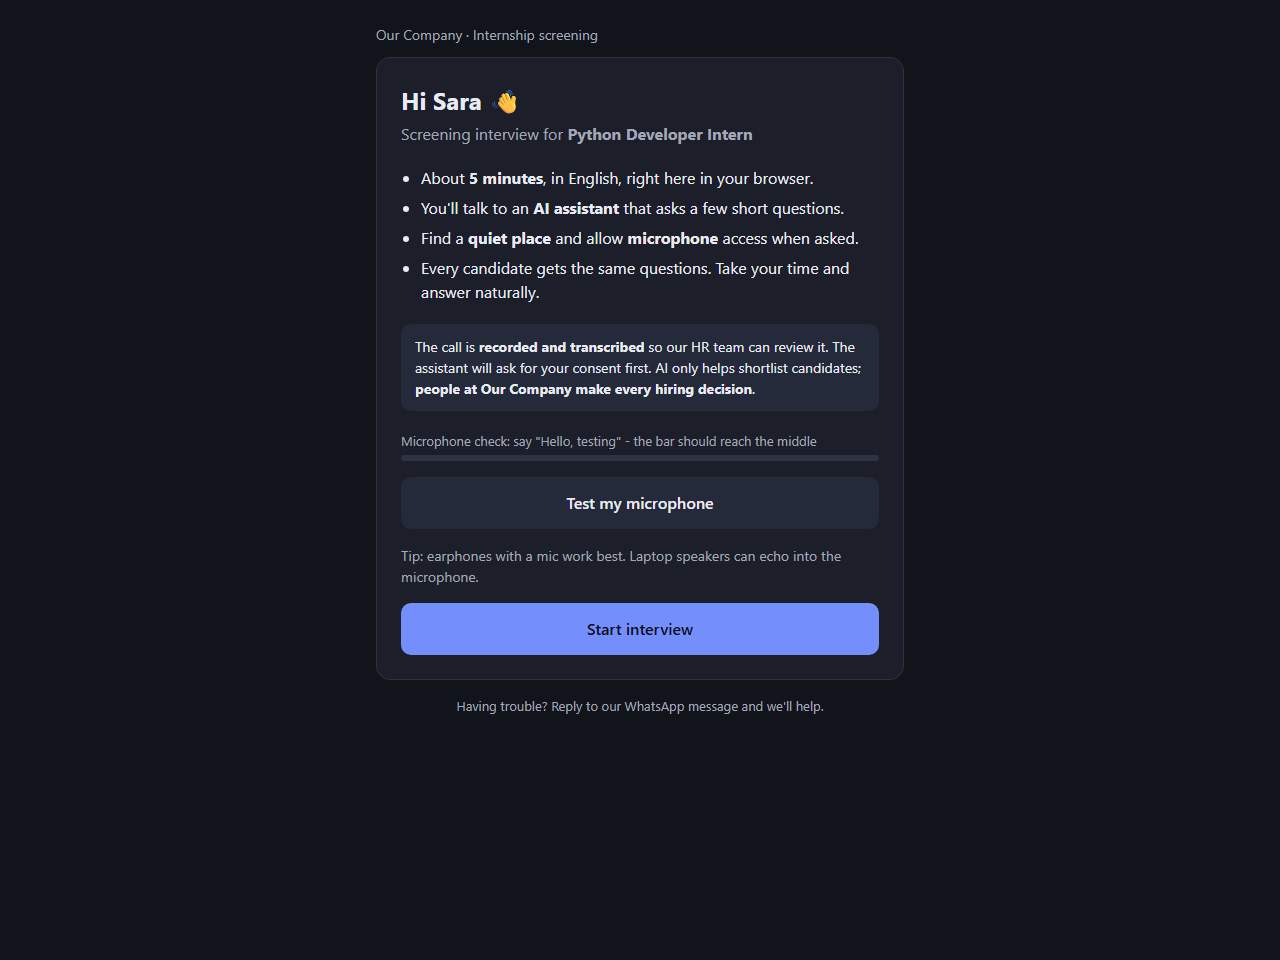
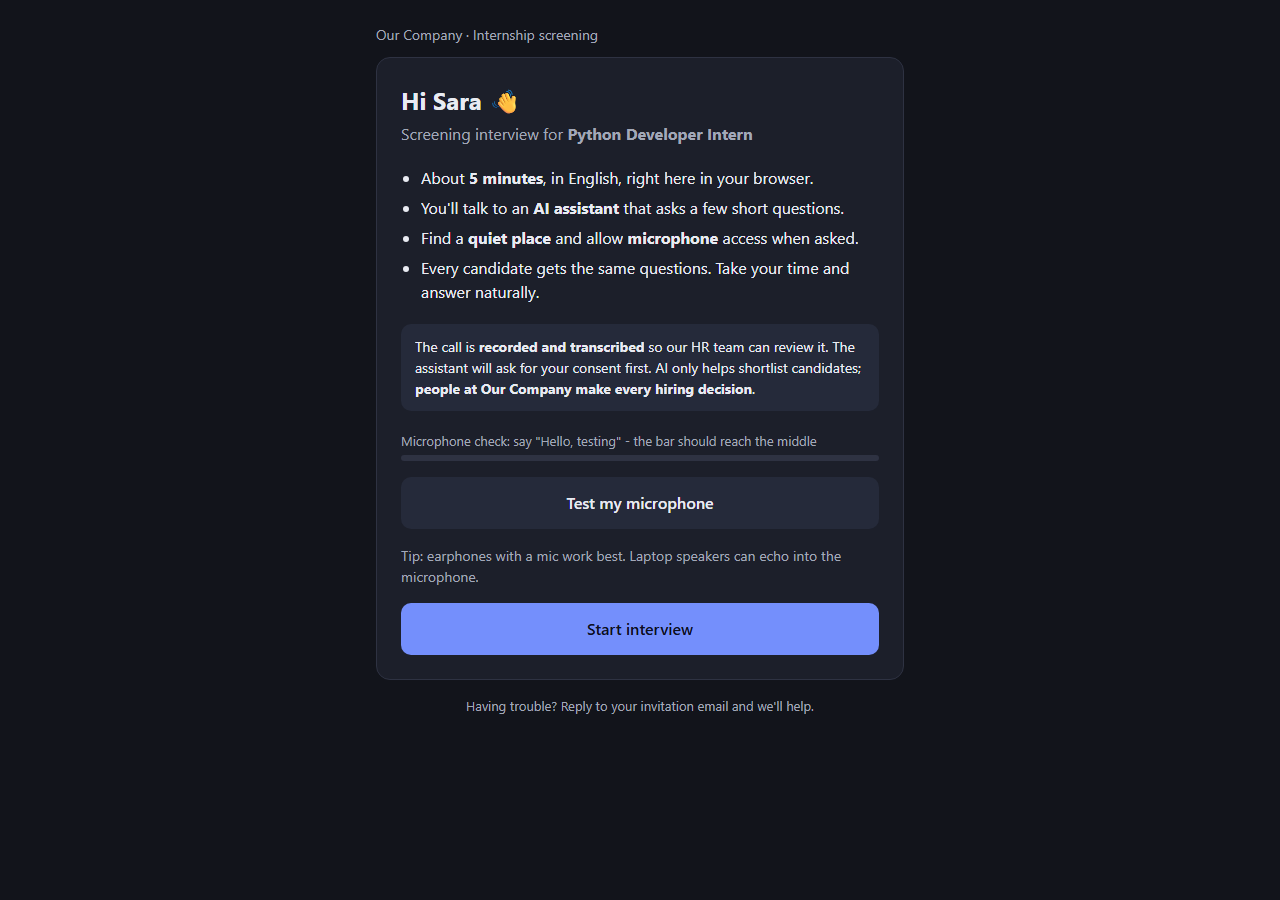
README screenshots (desktop + mobile) and Phase 7 progress log

Changed region(s): [[0.3125, 0.0933, 0.6875, 0.7467], [0.375, 0.7778, 0.625, 0.8089], [0.2812, 0.0311, 0.4688, 0.0622]]

diff --git a/PROGRESS.md b/PROGRESS.md
@@ -12,7 +12,7 @@ Running record of the build so any new session (human or AI) can pick up where w
 | 4. Google Calendar tool | ✅ **Done.** Real free/busy + events with Meet links in hr-account's calendar (2026-10-11) |
 | 5. n8n workflows + Meta WhatsApp Cloud API | 🟡 n8n flows live (email channel). **WhatsApp dropped by owner (2026-10-12)**: Meta blocks the new account (no card + no business verification). WhatsApp/ElevenLabs code kept, switched off |
 | 6. AWS EC2 deployment | ✅ **Live (2026-10-13):** https://muneeb-screener.duckdns.org (EC2 t3.small, Mumbai, HTTPS, nightly S3 backups) |
-| 7. CI/CD + README polish | Not started |
+| 7. CI/CD + README polish | ✅ **Public repo** https://github.com/Muneeb-akhtar/ai-internship-screener, CI green, GitOps auto-deploy (2026-10-13). ⏳ Owner records the demo video |
 
 ## Log
 ### 2026-10-09: environment setup + Phase 1
@@ -193,10 +193,21 @@ Running record of the build so any new session (human or AI) can pick up where w
   backup.sh/restore.sh now read only the needed keys via `env_get`.
 - If SSH stops working, the home IP probably changed → edit the SSH rule in `screener-sg` to "My IP".
 
+### 2026-10-13: Phase 7, public repo + CI/CD
+- Before publishing: scanned ALL git history. No keys/tokens were ever committed. Personal data (emails, phone, home IP,
+  AWS/GCP/Meta ids) was scrubbed from every commit with `git filter-repo --replace-text` (backup bundle kept locally).
+- `.github/workflows/ci.yml`: ruff + pytest (mocked LLM), Docker image build, compose dev/prod validation, Caddyfile
+  validation, shellcheck, n8n-export freshness (made the generator deterministic: node ids from uuid5). Linted with actionlint.
+- Deployment is **pull-based**: `deploy/auto-deploy.sh` (cron */5 on the server) deploys `origin/main` only when ALL GitHub
+  check runs for that SHA succeeded, health-checks `https://DOMAIN/health`, rolls back on failure and remembers the bad SHA.
+  No AWS keys in GitHub, SSH stays restricted. Deviation from the brief (ECR + SSH push): chosen for security and zero setup.
+- README (diagrams, screenshots, highlights, security), `docs/DEMO.md` (video script + free recording tools), `docs/PORTFOLIO.md`
+  (resume bullets + LinkedIn post), MIT license. Candidate-facing text says email instead of WhatsApp.
+
 ### Next steps
-1. Owner: end-to-end demo on the live server (add a candidate row as `New`).
-2. Owner: Budget alert (skipped so far) + optionally regenerate the DuckDNS token (shown in a screenshot).
-3. Phase 7: GitHub repo (ask public/private), CI/CD, README, demo script, resume bullet.
+1. Owner records the 2–3 min demo video (docs/DEMO.md), uploads it unlisted → put the link in README.
+2. Owner: Budget alert + optionally regenerate the DuckDNS token.
+3. Open decision: near-threshold rejects → human review?
 3. Owner decision: should near-threshold rejects (e.g. 17–19) or any skipped question go to human review?
 2. Owner: rotate the Vapi private key (it was shared in chat).
 3. Owner: publish the OAuth app (avoid the 7-day token expiry); delete the 2 TEST events if wanted.

diff --git a/README.md b/README.md
@@ -17,8 +17,11 @@ strong candidates and asks HR to decide borderline ones with one click.
 🎥 **Demo video:** _coming soon_ · 🌐 **Live deployment:** `https://muneeb-screener.duckdns.org` (private routes only, see [Security](#security))
 
 <p align="center">
-  <img src="docs/images/interview-page-desktop.png" alt="Candidate interview page" width="560">
+  <img src="docs/images/interview-page-desktop.png" alt="Candidate interview page (desktop)" width="560">
+  &nbsp;
+  <img src="docs/images/interview-page-mobile.png" alt="Candidate interview page (mobile)" width="210">
 </p>
+<p align="center"><i>The candidate's interview page (live deployment): AI disclosure, consent notice and mic check before the voice call.</i></p>
 
 ---
 
